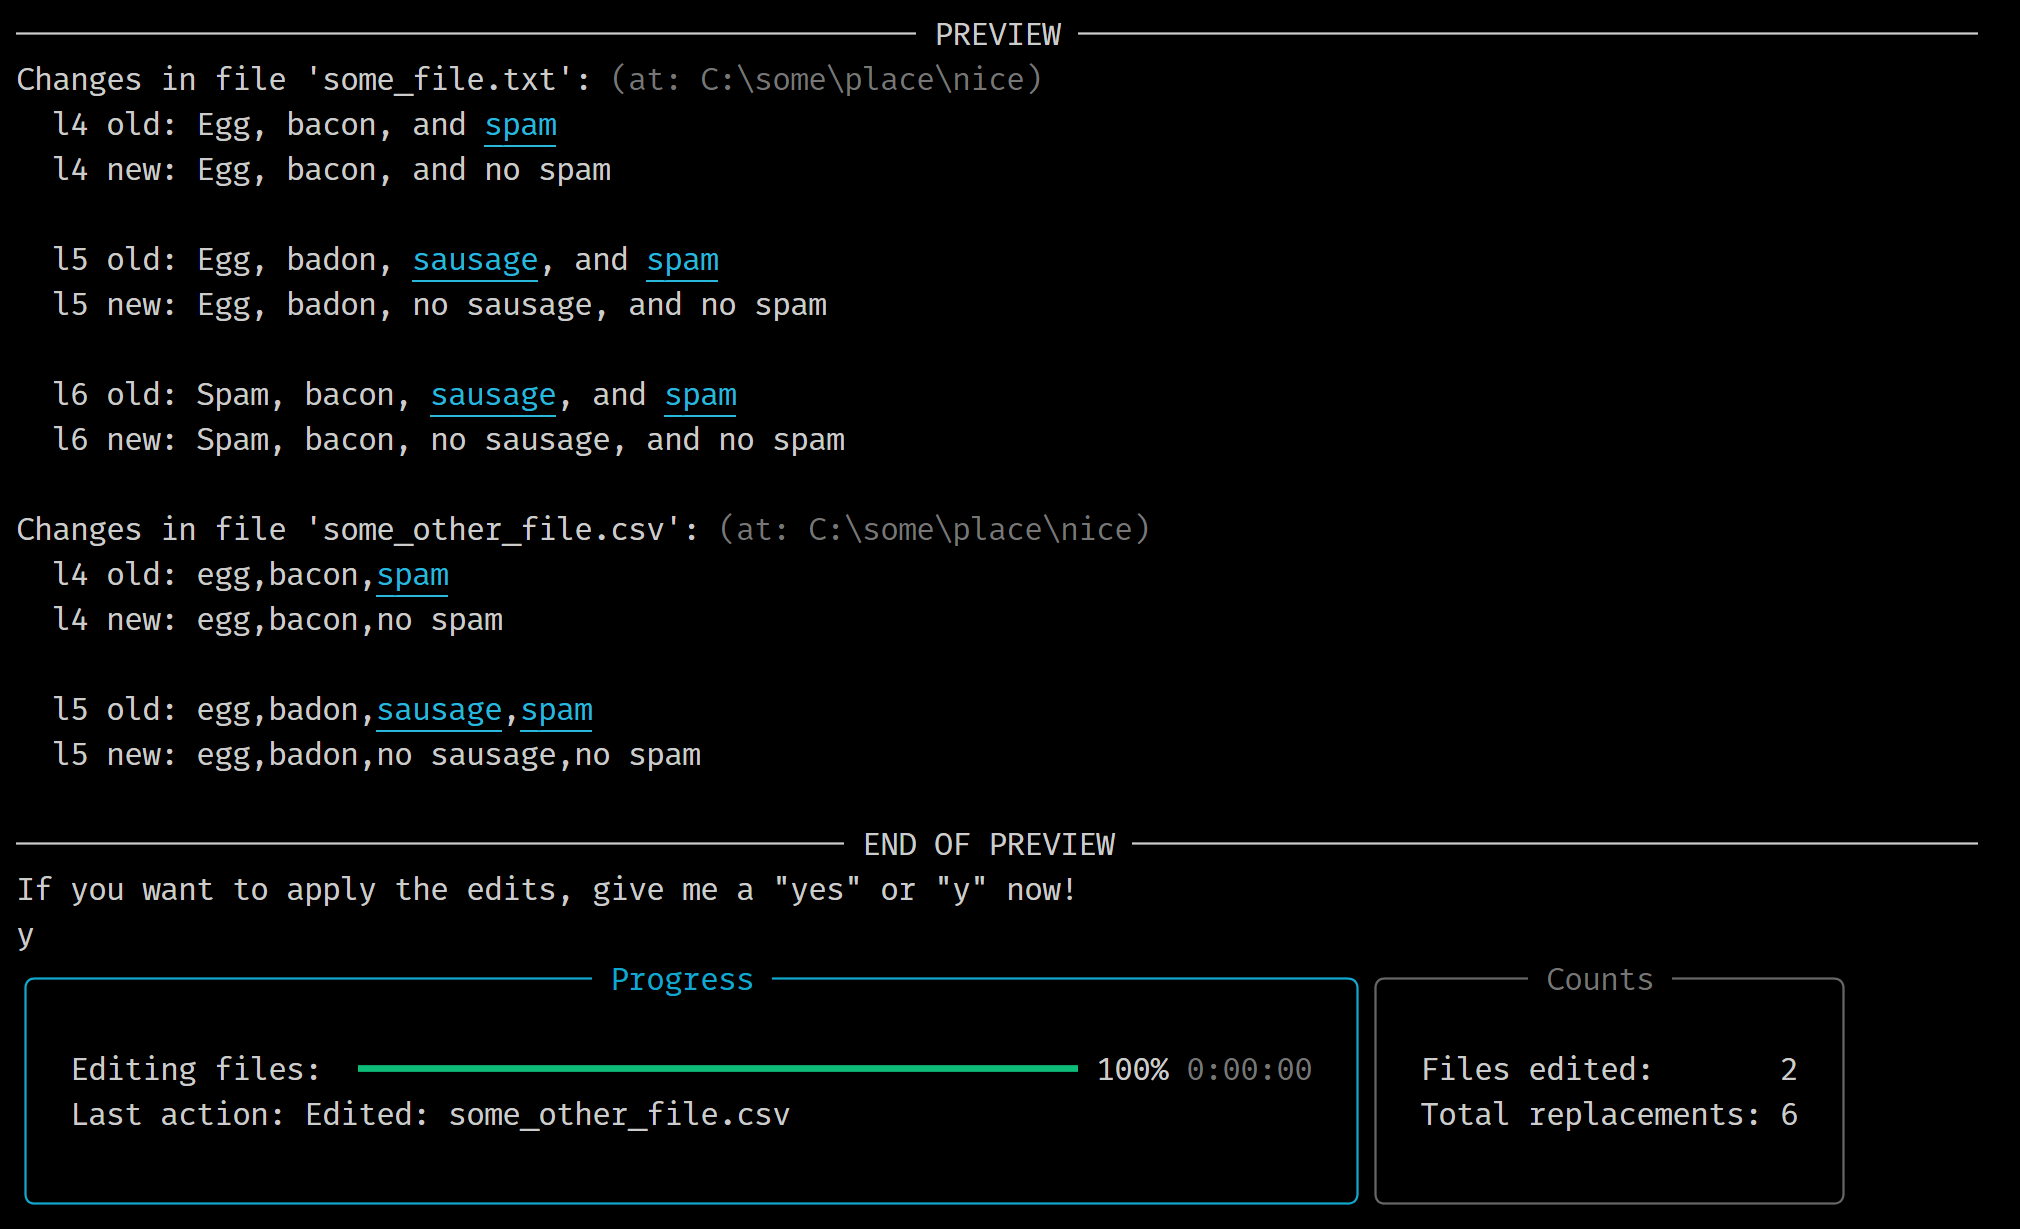
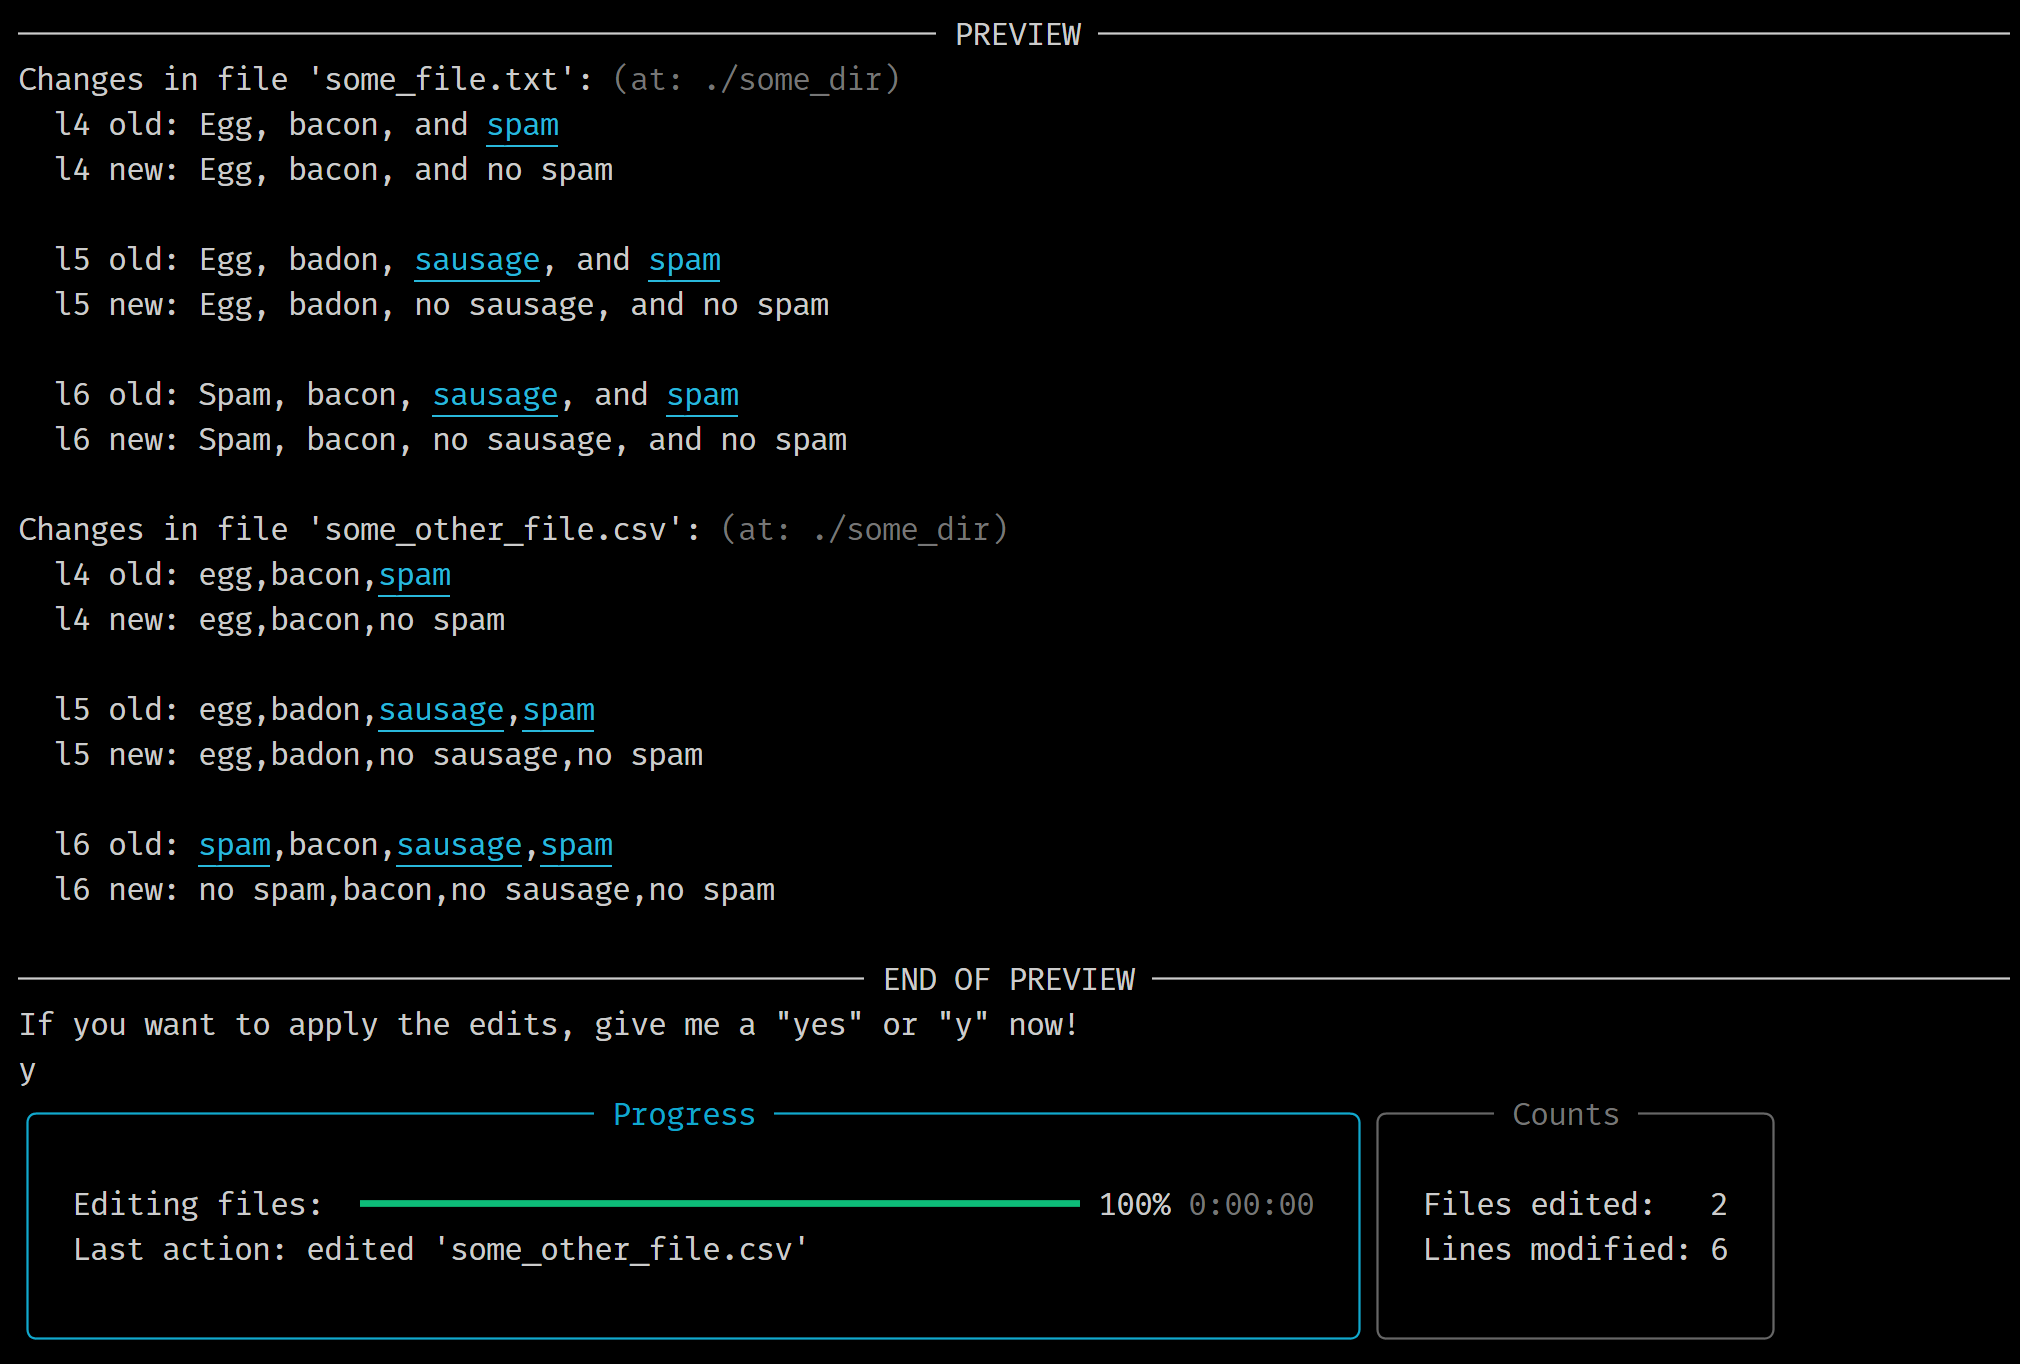
feat(sed): nicer reporting

diff --git a/clifs/plugins/edit.py b/clifs/plugins/edit.py
@@ -99,8 +99,7 @@ class StreamingEditor(ClifsPlugin, PathGetterMixin):
             "--max_previews",
             type=int,
             default=5,
-            help="Max number of changes shown in preview mode. Each line in a file "
-            "where 'pattern' matches at least once counts as a change. "
+            help="Maximum number of line changes shown in the preview mode. "
             "Set to zero to skip preview mode completely. Only for the brave...",
         )
 
@@ -167,7 +166,7 @@ class StreamingEditor(ClifsPlugin, PathGetterMixin):
                     self.replace(file)
                     self.progress["overall"].update(
                         self.tasks["progress"],
-                        last_action=f"Edited: {file.name}",
+                        last_action=f"edited '{file.name}'",
                     )
                     self.progress["overall"].advance(self.tasks["progress"])
                     self.progress["counts"].advance(self.tasks["files_edited"])
@@ -227,8 +226,8 @@ class StreamingEditor(ClifsPlugin, PathGetterMixin):
         tasks["files_edited"] = self.progress["counts"].add_task(
             "Files edited:", total=None
         )
-        tasks["total_replacements"] = self.progress["counts"].add_task(
-            "Total replacements:", total=None
+        tasks["lines_changed_total"] = self.progress["counts"].add_task(
+            "Lines modified:", total=None
         )
         return tasks
 
@@ -292,7 +291,7 @@ class StreamingEditor(ClifsPlugin, PathGetterMixin):
                     mod_line = re.sub(self.pattern, self.replacement, line)
                     if mod_line != line:
                         self.progress["counts"].advance(
-                            self.tasks["total_replacements"]
+                            self.tasks["lines_changed_total"]
                         )
                     output_fh.write(mod_line)
             else:
@@ -301,7 +300,7 @@ class StreamingEditor(ClifsPlugin, PathGetterMixin):
                         mod_line = re.sub(self.pattern, self.replacement, line)
                         if mod_line != line:
                             self.progress["counts"].advance(
-                                self.tasks["total_replacements"]
+                                self.tasks["lines_changed_total"]
                             )
                         output_fh.write(mod_line)
                     else:

diff --git a/CHANGELOG.md b/CHANGELOG.md
@@ -2,6 +2,7 @@
 
 ## Unreleased Changes
 
+- streaming editor: nicer reporting
 
 ## v1.5.0 - Feb. 22, 2024
 
